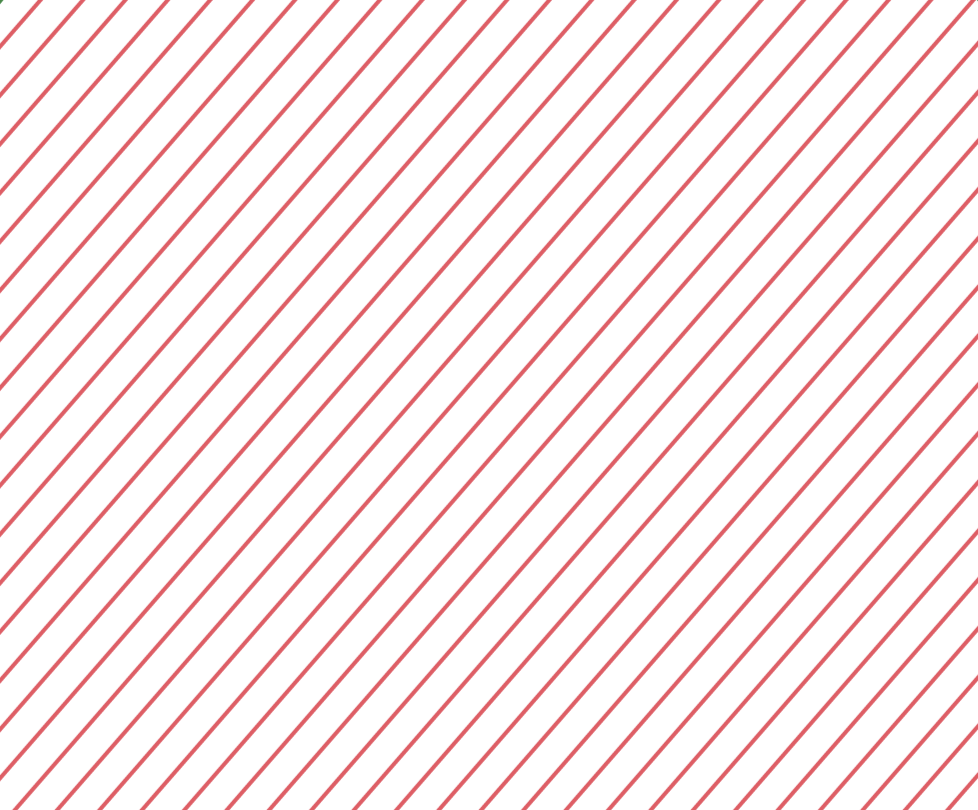
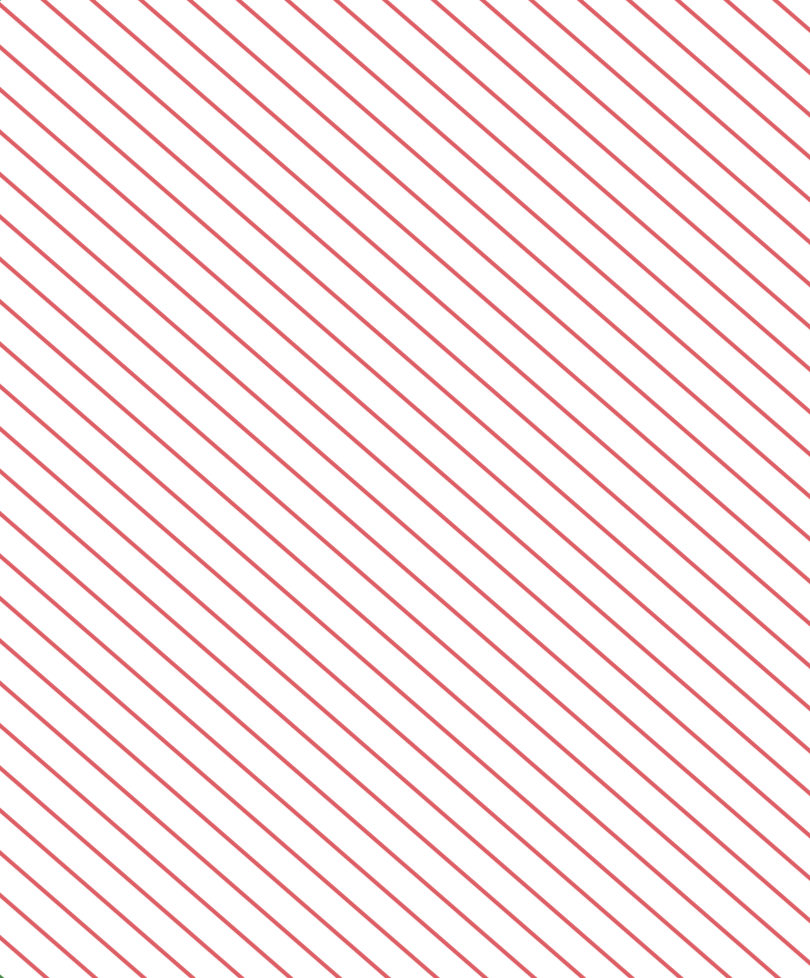
hesstétique des cadres projets fini

Changed region(s): [[0.0, 0.0, 1.0, 1.0]]

diff --git a/src/components/Description-Projet.vue b/src/components/Description-Projet.vue
@@ -1,9 +1,10 @@
 <template>
   <div class="flex justify-self-center
               w-5/6   m-auto mt-20
-              border-solid border-4 bg-action-lacerer rounded-xl ">
+              bg-action-lacerer bg-repeat
+              border-solid border-4  rounded-xl ">
     <div class="flex place-items-center {{this.cssDirection}}
-                hover:border-solid hover:border-action hover:border-2 bg-secondary hover:rounded-xl
+                hover:border-solid hover:border-action hover:border-4 bg-secondary hover:rounded-xl
                 hover:-translate-y-4 hover:-translate-x-4 duration-150">
       <div class="w-7/12">
         Lorem ipsum dolor sit amet, consectetur adipiscing elit, sed do eiusmod tempor incididunt ut labore et dolore magna aliqua.
